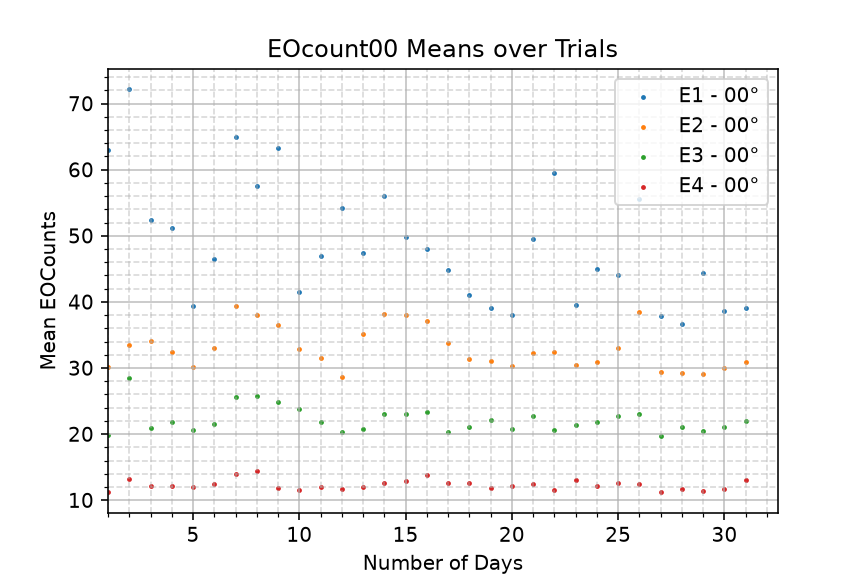
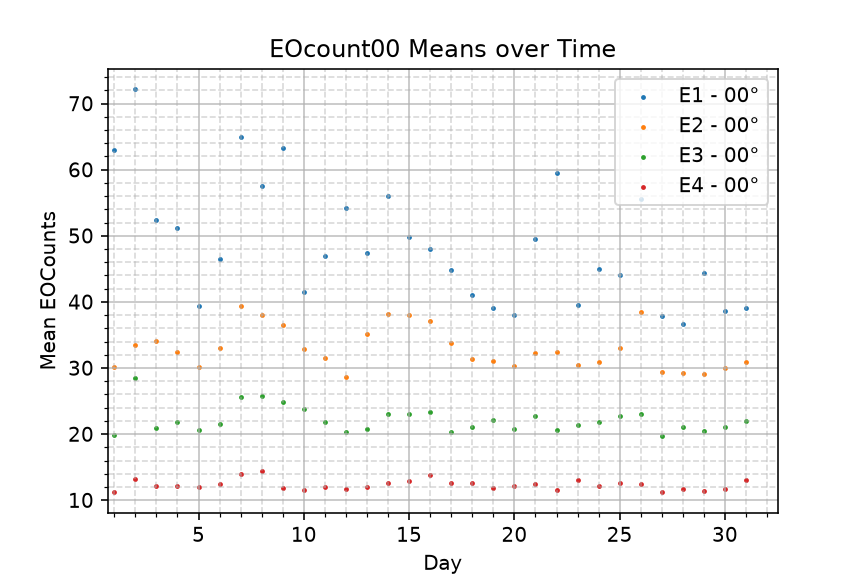
Add files via upload

diff --git a/project/project_II.py b/project/project_II.py
@@ -240,13 +240,13 @@ plt.scatter(n,meanlist00_E2,s=2,label = "E2 - $00°$")
 plt.scatter(n,meanlist00_E3,s=2,label = "E3 - $00°$")
 plt.scatter(n,meanlist00_E4,s=2,label = "E4 - $00°$")
  
-plt.title('EOcount00 Means over Trials')
+plt.title('EOcount00 Means over Time')
 plt.minorticks_on()
 plt.grid(which='major',linestyle='-',alpha=0.8)   # add a grid to the major ticks
 plt.grid(which='minor',linestyle='--',alpha=0.5)
-plt.xlabel('Number of Days')
+plt.xlabel('Day')
 plt.ylabel('Mean EOCounts')
-plt.xlim(1, None) 
+plt.xlim(0.7, None) 
 plt.legend()
 plt.savefig("project_IIa.png")
 plt.show()
@@ -260,7 +260,7 @@ plt.title('EOcount90 Means over Time')
 plt.minorticks_on()
 plt.grid(which='major',linestyle='-',alpha=0.8)   # add a grid to the major ticks
 plt.grid(which='minor',linestyle='--',alpha=0.5)
-plt.xlabel('Number of Days')
+plt.xlabel('Day')
 plt.ylabel('Mean EOCounts')
 plt.xlim(0.7, None) 
 plt.legend()
